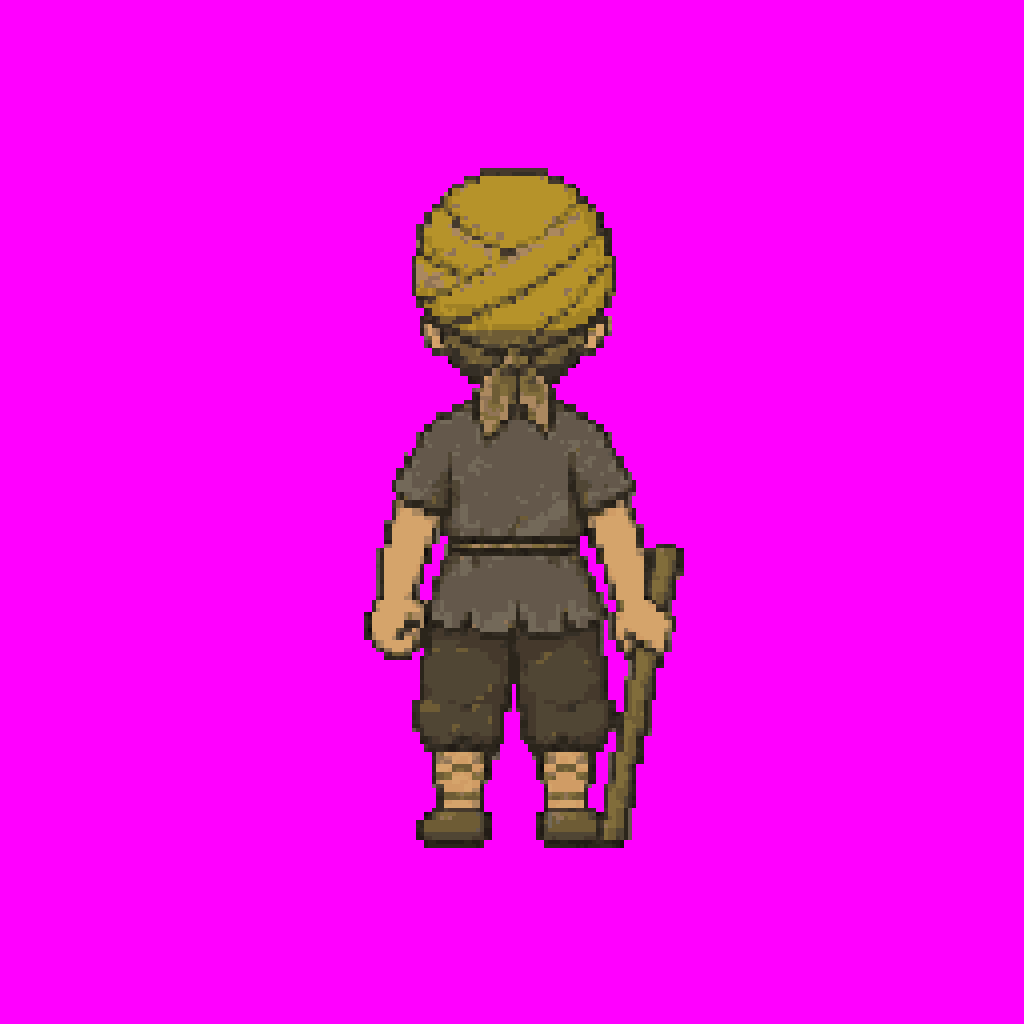
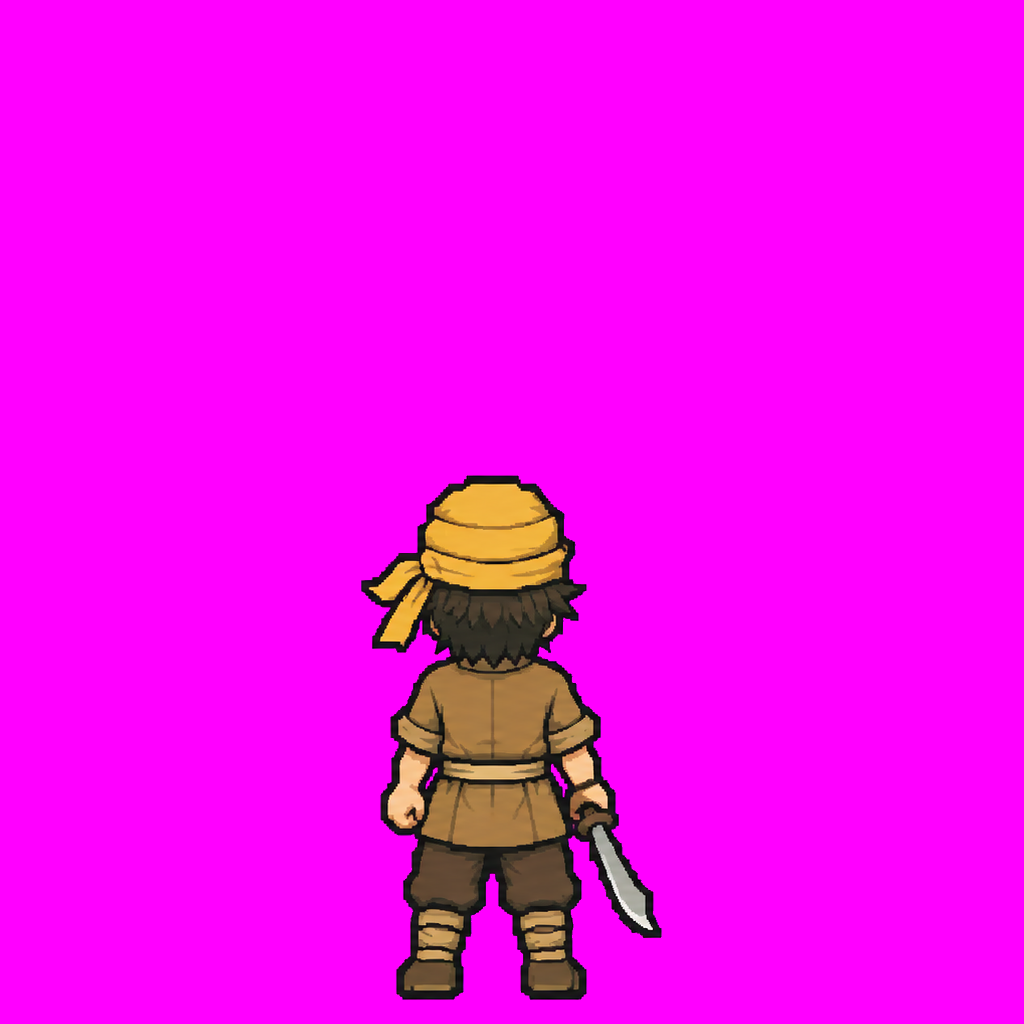
art: regenerate ordinary Yellow Turban walk and stand sprites

Changed region(s): [[0.3438, 0.1562, 0.6875, 1.0]]

diff --git a/ART_QUEUE.md b/ART_QUEUE.md
@@ -69,7 +69,7 @@
 ## 6. 老農（城外被搶的百姓）　狀態：暫不需要
 - 遊戲目前直接用現有的 `npc_farmer_walk_*`，夠用。
 
-## 7. 黃巾兵 重做（森林與城外的普通小兵）　狀態：待重新生成
+## 7. 黃巾兵 重做（森林與城外的普通小兵）　狀態：已推送（2026-11-14）
 - 檔名（覆蓋現有檔）：`assets/characters/turban_walk_front.png`、`turban_walk_side.png`、`turban_walk_back.png`
 - 尺寸：每張 2048×512，橫排 4 格（每格 512×512），側面朝右。底稿與主角相同：`assets/templates/walk_front_template.png`、`walk_back_template.png`，側面參考 `assets/characters/hero_walk_side.png`。身高、比例、地面線與主角一致。
 - 造型：普通黃巾兵，頭戴黃色頭巾，身穿粗布短褐，腰繫布帶，手持鐵刀或木棍（武器不要超出格子）。神情兇悍但不誇張，體格精瘦，比武將小。現代審美，粗深色輪廓。
